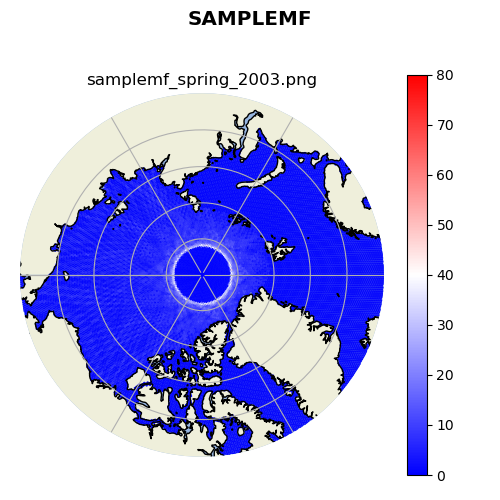
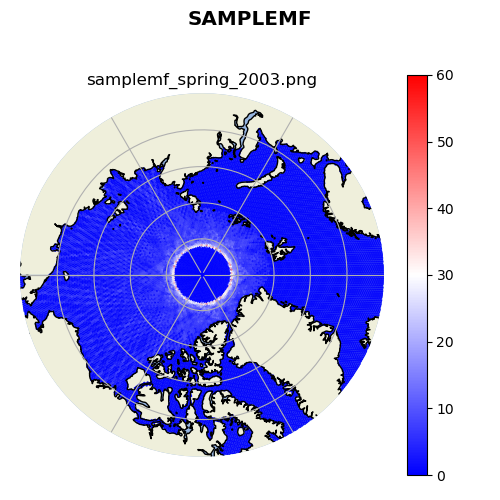
modelmf image

diff --git a/practice_plotting/config.py b/practice_plotting/config.py
@@ -47,7 +47,7 @@ DEFAULT_DOWNSAMPLE_FACTOR = 100
 VMIN = 0
 #VMAX = 1      # Good for Ice Area
 #VMAX = 0.7    # Good for Freeboard
-VMAX = 80    # for ALL FILES - samplemf the max is 295, but there are not many tracks that go above 150 samples; 100 is too low
+VMAX = 60    # for ALL FILES - samplemf the max is 295, but there are not many tracks that go above 150 samples; 100 is too low
 #VMAX = 45      # for spring 2003
 #VMAX = 15000  # for ALL FILES - sampleof the max is 46893, but there are not that many tracks that go about 15000 samples; 20000 looks ok 
 #VMAX = 5000    # for spring 2003
